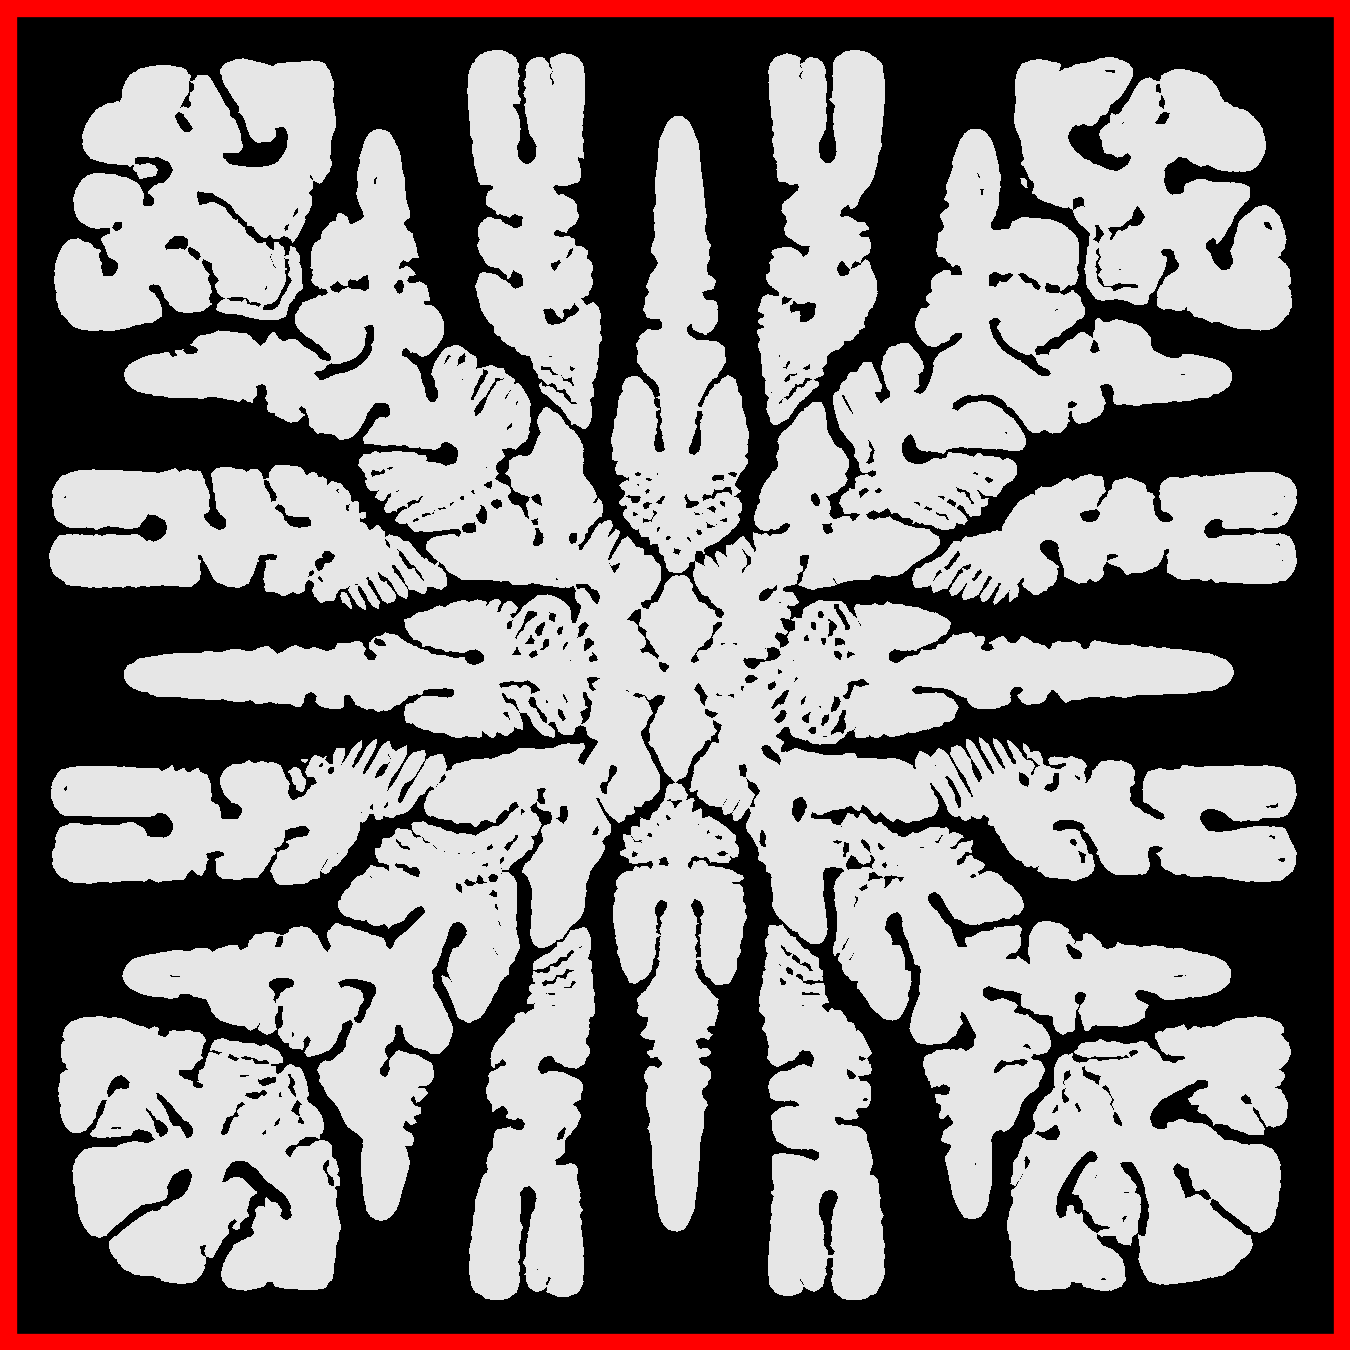
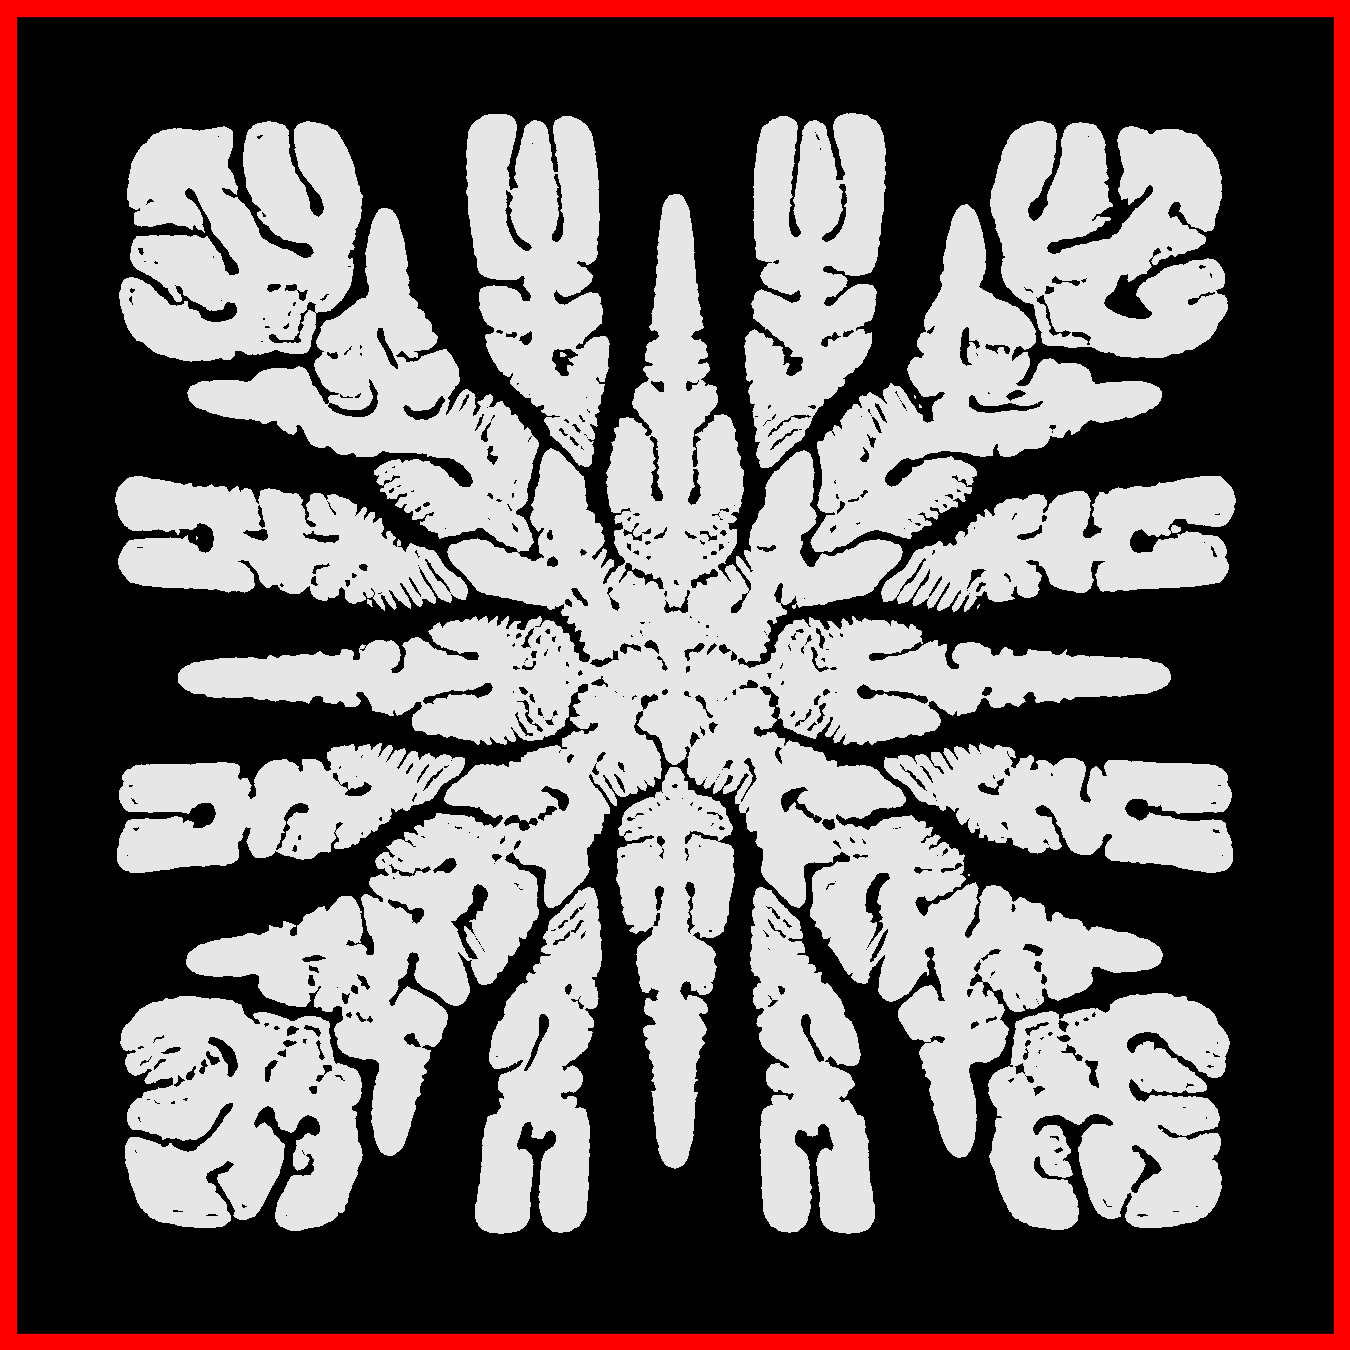
heat section updated

Changed region(s): [[0.0311, 0.0311, 0.9644, 0.9644]]

diff --git a/tex/distributed.tex b/tex/distributed.tex
@@ -1502,10 +1502,10 @@ assuming that the elements are identical equilateral triangles or regular tetrah
 
 \vspace*{0.5cm}
 \noindent \textbf{Penalized subdomains.}
-In some applications, specific subregions of $\mathcal{D}$ must remain fixed. 
+In some applications, specific subregions of $\overline{\mathcal{D}}$ must remain fixed. 
 To handle this, we have implemented the \code{Subdomain} class.
 This class constructs an indicator function from a list of inequalities that
-define a subdomain $\Om_0$ of $\mathcal{D}$. We can then use this function
+define a subdomain $\Om_0$ of $\overline{\mathcal{D}}$. We can then use this function
 to add a penalty term of the form
 \begin{equation}\label{eq:sub_dom}
 	{10}^4 \int_{\mathcal{D}} (\theta \cdot \xi) \chi_{\Omega_0}
@@ -1514,7 +1514,7 @@ to the bilinear form $B$.
 Solving \eqref{eq:velocity} with this additional term enforces $\theta \approx 0$ within $\Omega_0$, effectively keeping the subdomain $\Omega_0$ unperturbed during the shape optimization process.
 For instance, the subdomain
 \begin{equation}
-	\Omega_0 = \left\{ (x,y)\in \mathcal{D} \mid 1.95 < x,\, 0.42 < y < 0.58   \right\}
+	\Omega_0 = \left\{ (x,y)\in \overline{\mathcal{D}} \mid 1.95 < x,\, 0.42 < y < 0.58   \right\}
 \end{equation}
 is modeled using the function
 \begin{lstlisting}
@@ -2078,9 +2078,11 @@ subject to
 where $u$ is the solution to \tred{A: when writing the strong formulation we should always write it using transmission conditions to be rigorous. That's why I usually prefer to write first the wek formulation and then the strong formulation.}
 \begin{equation} \label{eq:heat_prob}
 	\begin{aligned}
-	-\operatorname{div}(A_{\Omega} \nabla u) &= f && \text{in } \mathcal{D}\\
+	-\operatorname{div}(A_{\Omega} \nabla u) &= f && \text{in } \Omega \text{ and } \mathcal{D}\setminus\overline{\Omega}\\
                                           u  &= 0 && \text{on } \Gamma_{0}\\
-                             \partial_{n} u  &= 0 && \text{on } \Gamma\setminus\Gamma_{0}                     
+                             \partial_{n} u  &= 0 && \text{on } \Gamma\setminus\Gamma_{0}\\
+			   (A_{\Omega} \partial_{n} u)^+ &= (A_{\Omega} \partial_{n} u)^- && \text{on }  \partial\Omega\\
+							             u^+ &= u^- && \text{on }  \partial\Omega        
 	\end{aligned}	
 \end{equation}
 and $A_{\Omega}:\overline{\mathcal{D}} \rightarrow \mathds{R}$ is given by
@@ -2113,15 +2115,15 @@ for the cost functional, and
 	S^C_0 = \boldsymbol{0},\quad S^C_1 = \frac{1}{V} \chi_\Omega I
 \end{equation*}
 for the constraint function.
-In all examples, we use the square domain $\mathcal{D} = (0, 1)\times(0, 1)$.
+In all examples, we use the square domain $\mathcal{D} = (0, 1)\times(0, 1)$,
+and red color to highlight $\Gamma_0$, where the temperature is fixed to zero.
 
 \noindent\textit{Example 1.}
 We apply a uniform heat $f \equiv 1$,
-with volume constraint $V = 0.25$ and
-fixed temperature $u=0$ on $\Gamma_0 = (0.4, 0.6)\times\{y=0\}$.
+with volume constraint $V = 0.25$ and $\Gamma_0 = (0.4, 0.6)\times\{y=0\}$.
 The test is carry out using data parallelism with two processes:
 \begin{lstlisting}
-mpirun -np 2 python test.py 09 # Data
+mpirun -np 2 python test.py 09 # Data (58 sec)
 \end{lstlisting}
 See the results in Figure \ref{fig:heat1}.
 In this example, we have employed the bilinear form
@@ -2130,39 +2132,43 @@ In this example, we have employed the bilinear form
 	+ {10}^4(\theta \cdot \xi) \chi_{\Omega_0}, 
 \end{equation*}
 with $\theta, \xi \in \mathbb{H} = H^1_0(\mathcal{D})^d$
-and $\Omega_0 = (0.3, 0.7)\times[0, 0.05)$ (which contains $\Gamma_0$).
-Thus, the material around $\Gamma_0$ is penalized in the bilinear form $B$.
+and $\Omega_0 = (0.3, 0.7)\times[0, 0.05)$, 
+in order to penalized the material around $\Gamma_0$.
 \begin{center}
 \includegraphics[width=0.48\linewidth]{heat1_0.png}
 \hfill
 \includegraphics[width=0.48\linewidth]{heat1_1.png}
 \captionof{figure}{
-	Initial guess and optimized design at iteration $i=204$.
-	The boundary $\Gamma_0$ is shown in red.
+	Initial guess and optimized design at iteration $i=204$,
+	computed on a mesh with {92\,582} triangles.
 }
 \label{fig:heat1}
 \end{center}
 
 \noindent\textit{Example 2.}
-
-$\Gamma_0 = \Gamma$
-
-$f \equiv 1$
-
-$V = 0.5$
-
+We apply a uniform heat $f\equiv 1$, with volume constraint $V = 0.6$
+and $\Gamma_0 = \Gamma$ (i.e., the whole boundary is kept at zero temperature).
+We run this example using data parallelism with two processes:
+%
 \begin{lstlisting}
-mpirun -np 2 python test.py 10 # Data
+mpirun -np 4 python test.py 10 # Data (51 sec)
 \end{lstlisting}
-
-Figure \ref{fig:heat2}
+%
+See the results in Figure \ref{fig:heat2}.
+The bilinear form $B$ is the same as in Example 1,
+but with $\Omega_0$ defined as
+\[
+\Omega_0 = \{x<0.1\} \cup \{x>0.9\} \cup \{y<0.1\} \cup \{y>0.9\}.
+\]
+Thus, the material is penalized close to the boundary.
 \begin{center}
 \includegraphics[width=0.48\linewidth]{heat2_0.png}
 \hfill
 \includegraphics[width=0.48\linewidth]{heat2_1.png}
 \captionof{figure}{
-	Initial guess and
-	optimized design at iteration $i=127$. \tred{A: we should make a comment about the fractal structure and small disconnected components? Is it a problem? Could we remove them with a perimeter constraint?}
+	Initial guess and optimized design at iteration $i=172$,
+	computed on a mesh with {144\,712} triangles.
+	\tred{A: we should make a comment about the fractal structure and small disconnected components? Is it a problem? Could we remove them with a perimeter constraint?}
 }
 \label{fig:heat2}
 \end{center}

diff --git a/code/load.py b/code/load.py
@@ -133,8 +133,14 @@ def test_09():
     plot_results_for_doc(
         test_path, 0, [[0, 1], [0, 1]], 8, Path("../tex/heat1_0.png"), boundaries
     )
+    last_iter = 204
     plot_results_for_doc(
-        test_path, 204, [[0, 1], [0, 1]], 8, Path("../tex/heat1_1.png"), boundaries
+        test_path,
+        last_iter,
+        [[0, 1], [0, 1]],
+        8,
+        Path("../tex/heat1_1.png"),
+        boundaries,
     )
 
 
@@ -153,8 +159,14 @@ def test_10():
     plot_results_for_doc(
         test_path, 0, [[0, 1], [0, 1]], 8, Path("../tex/heat2_0.png"), boundaries
     )
+    last_iter = 172
     plot_results_for_doc(
-        test_path, 127, [[0, 1], [0, 1]], 8, Path("../tex/heat2_1.png"), boundaries
+        test_path,
+        last_iter,
+        [[0, 1], [0, 1]],
+        8,
+        Path("../tex/heat2_1.png"),
+        boundaries,
     )
 
 
@@ -284,6 +296,81 @@ def test_20():
     pass
 
 
+def test_21():
+
+    print("\n\t Heat conduction with four sources (single) - Data Parallelism\n")
+    test_path = Path("../results/t21/")
+
+    vertices = np.array(
+        [
+            [0.05, 0.0],
+            [0.95, 0.0],
+            [1.0, 0.05],
+            [1.0, 0.95],
+            [0.95, 1.0],
+            [0.05, 1.0],
+            [0.0, 0.95],
+            [0.0, 0.05],
+            [0.05, 0.0],
+        ]
+    )
+
+    dir1_idx, dir1_mkr = [2], 1
+    dir2_idx, dir2_mkr = [4], 2
+    dir3_idx, dir3_mkr = [6], 3
+    dir4_idx, dir4_mkr = [8], 4
+
+    dir1 = np.array(vertices[(dir1_idx[0] - 1) : (dir1_idx[-1] + 1)])
+    dir2 = np.array(vertices[(dir2_idx[0] - 1) : (dir2_idx[-1] + 1)])
+    dir3 = np.array(vertices[(dir3_idx[0] - 1) : (dir3_idx[-1] + 1)])
+    dir4 = np.array(vertices[(dir4_idx[0] - 1) : (dir4_idx[-1] + 1)])
+
+    boundaries = [(dir1, "red"), (dir2, "red"), (dir3, "red"), (dir4, "red")]
+
+    plot_results_for_doc(
+        test_path, 0, [[0, 1], [0, 1]], 3, Path("../tex/heat5_0.png"), boundaries
+    )
+    plot_results_for_doc(
+        test_path, 80, [[0, 1], [0, 1]], 3, Path("../tex/heat5_2.png"), boundaries
+    )
+
+
+def test_22():
+
+    print("\n\t Heat conduction with four sources (multiple) - Task Parallelism\n")
+    test_path = Path("../results/t22/")
+
+    vertices = np.array(
+        [
+            [0.05, 0.0],
+            [0.95, 0.0],
+            [1.0, 0.05],
+            [1.0, 0.95],
+            [0.95, 1.0],
+            [0.05, 1.0],
+            [0.0, 0.95],
+            [0.0, 0.05],
+            [0.05, 0.0],
+        ]
+    )
+
+    dir1_idx, dir1_mkr = [2], 1
+    dir2_idx, dir2_mkr = [4], 2
+    dir3_idx, dir3_mkr = [6], 3
+    dir4_idx, dir4_mkr = [8], 4
+
+    dir1 = np.array(vertices[(dir1_idx[0] - 1) : (dir1_idx[-1] + 1)])
+    dir2 = np.array(vertices[(dir2_idx[0] - 1) : (dir2_idx[-1] + 1)])
+    dir3 = np.array(vertices[(dir3_idx[0] - 1) : (dir3_idx[-1] + 1)])
+    dir4 = np.array(vertices[(dir4_idx[0] - 1) : (dir4_idx[-1] + 1)])
+
+    boundaries = [(dir1, "red"), (dir2, "red"), (dir3, "red"), (dir4, "red")]
+
+    plot_results_for_doc(
+        test_path, 63, [[0, 1], [0, 1]], 3, Path("../tex/heat5_3.png"), boundaries
+    )
+
+
 def test_32():
     """
     Performance of test 01 (mesh_size = 0.015, 20 946 triangles)
@@ -383,6 +470,8 @@ test_functions = {
     "18": test_18,
     "19": test_19,
     "20": test_20,
+    "21": test_21,
+    "22": test_22,
     "32": test_32,
 }
 

diff --git a/code/test.py b/code/test.py
@@ -1515,7 +1515,7 @@ def test_10():
     Heat conduction 2 - Data Parallelism
 
     Run `mpirun -np <nbr of processes> python test.py 10`.
-    For instance, `mpirun -np 2 python test.py 10`.
+    For instance, `mpirun -np 4 python test.py 10`.
 
     To save the output, append `> ../results/t10/out.txt`.
     To delete the images, enter `rm ../results/t10/*.png`.
@@ -1525,7 +1525,7 @@ def test_10():
     test_path = Path("../results/t10/")
     dim = 2
     rank_dim = 1
-    mesh_size = 5e-3
+    mesh_size = 4e-3
 
     vertices = np.array([[0.0, 0.0], [1.0, 0.0], [1.0, 1.0], [0.0, 1.0]])
 
@@ -1543,7 +1543,7 @@ def test_10():
 
     # Create gmsh domain for Data Parallelism
     output = dib.create_domain_2d_DP(
-        vertices, boundary_parts, mesh_size, path=test_path, plot=True
+        vertices, boundary_parts, mesh_size, path=test_path, plot=False
     )
 
     domain, nbr_tri, boundary_tags = output
@@ -1557,25 +1557,25 @@ def test_10():
     space = dib.create_space(domain, "CG", rank_dim)
     # Dirichlet conditions
     dirichlet_bcs = dib.homogeneus_boundary(domain, space, dim, rank_dim)
-    area = 0.5
+    area = 0.6
     # Create the model
     md = Heat(dim, domain, space, dirichlet_bcs, area, test_path)
 
     @dib.region_of(domain)
     def sub_domain1(x):
-        return [0.05 - x[1]]
+        return [0.1 - x[1]]
 
     @dib.region_of(domain)
     def sub_domain2(x):
-        return [x[0] - 0.95]
+        return [x[0] - 0.9]
 
     @dib.region_of(domain)
     def sub_domain3(x):
-        return [x[1] - 0.95]
+        return [x[1] - 0.9]
 
     @dib.region_of(domain)
     def sub_domain4(x):
-        return [0.05 - x[0]]
+        return [0.1 - x[0]]
 
     md.sub = [
         sub_domain1.expression(),
@@ -1598,7 +1598,7 @@ def test_10():
     md.create_initial_level(centers, radii)
     md.save_initial_level(comm)
 
-    md.runDP(niter=200, dfactor=1e-1, ctrn_tol=1e-3, lgrn_tol=5e-2)
+    md.runDP(niter=200, dfactor=1e-1, ctrn_tol=1e-3)
 
 
 def test_11():
